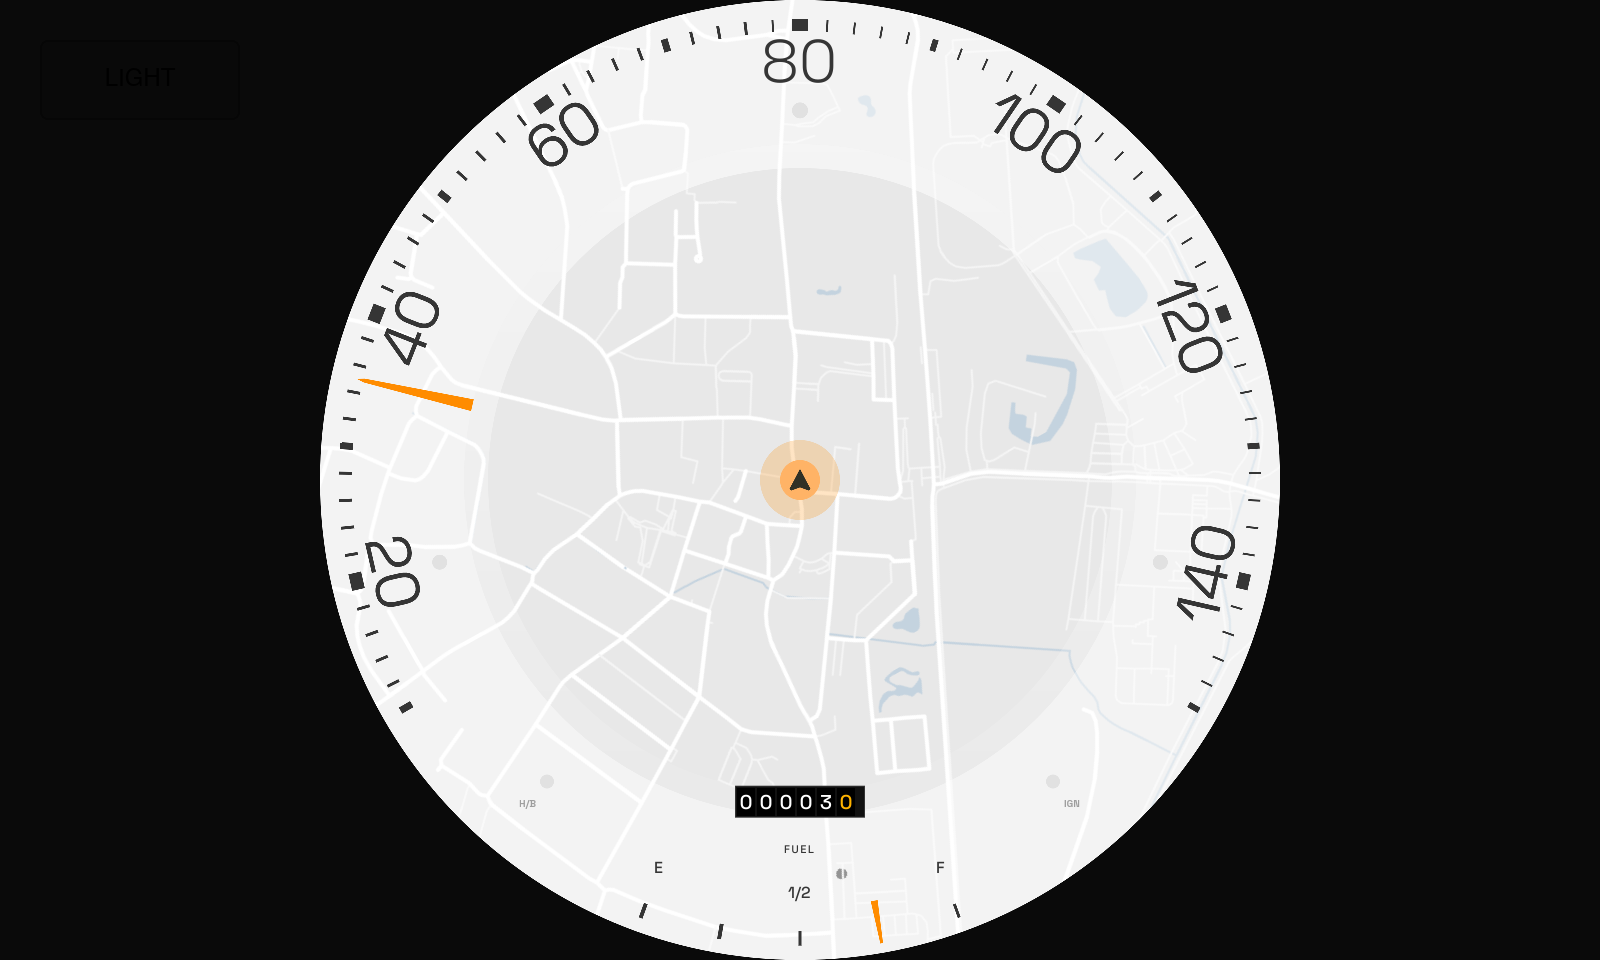
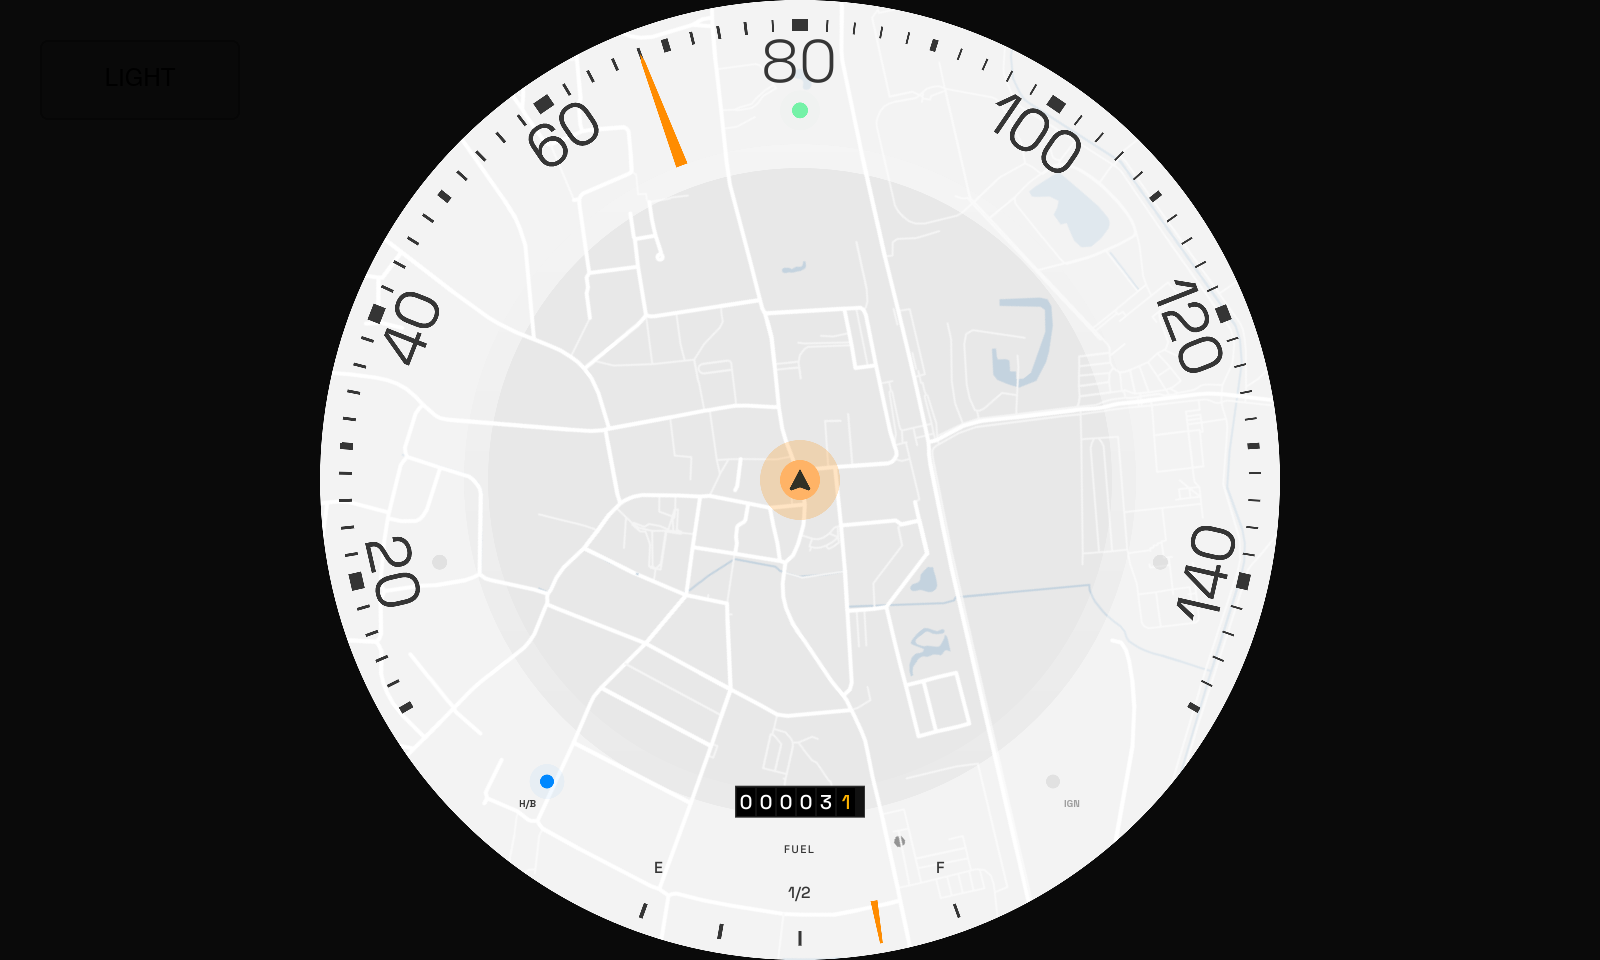
Optimize Spotify integration, robust map rendering, and smooth instrument animations

diff --git a/src/map_renderer.rs b/src/map_renderer.rs
@@ -180,11 +180,19 @@ pub fn render_map(
                             poi_area: None,
                         };
 
-                        if let Ok(Some(tile_data)) = pm.get_tile(tile_x, tile_y, zoom) {
-                            let mut d = flate2::read::GzDecoder::new(tile_data.as_slice());
-                            let mut decompressed = Vec::new();
-                            if d.read_to_end(&mut decompressed).is_ok()
-                                && let Ok(reader) = mvt_reader::Reader::new(decompressed) {
+                        let mut cache_tile = false;
+
+                        match pm.get_tile(tile_x, tile_y, zoom) {
+                            Ok(Some(tile_data)) => {
+                                let mut d = flate2::read::GzDecoder::new(tile_data.as_slice());
+                                let mut decompressed = Vec::new();
+                                let decode_bytes = if d.read_to_end(&mut decompressed).is_ok() {
+                                    decompressed
+                                } else {
+                                    tile_data.as_slice().to_vec()
+                                };
+
+                                if let Ok(reader) = mvt_reader::Reader::new(decode_bytes) {
                                     let mut water_fill_pb = PathBuilder::new();
                                     let mut water_stroke_pb = PathBuilder::new();
                                     let mut road_major_pb = PathBuilder::new();
@@ -241,15 +249,14 @@ pub fn render_map(
                                                     if let Some(properties) = &f.properties
                                                         && let Some(Value::String(val)) =
                                                             properties.get("class")
-                                                            && (val == "secondary"
-                                                                || val == "tertiary"
-                                                                || val == "unclassified"
-                                                                || val == "primary"
-                                                                || val == "residential"
-                                                                || val == "motorway")
-                                                            {
+                                                    {
+                                                        match val.as_str() {
+                                                            "secondary" | "tertiary" | "unclassified" | "primary" | "residential" | "motorway" => {
                                                                 is_major = true;
                                                             }
+                                                            _ => {}
+                                                        }
+                                                    }
                                                     let pb = if is_major {
                                                         &mut road_major_pb
                                                     } else {
@@ -320,14 +327,27 @@ pub fn render_map(
                                     new_paths.road_minor = road_minor_pb.finish();
                                     new_paths.poi_point = poi_point_pb.finish();
                                     new_paths.poi_area = poi_area_pb.finish();
+                                    cache_tile = true;
                                 }
+                            }
+                            Ok(None) => {
+                                // Tile definitely does not exist
+                                cache_tile = true;
+                            }
+                            Err(e) => {
+                                error!("Failed to get tile from PMTiles: {}", e);
+                            }
                         }
+
                         let arc_tile = Arc::new(new_paths);
-                        TILE_CACHE.with(|cache| {
-                            cache
-                                .borrow_mut()
-                                .put((tile_x, tile_y, zoom), arc_tile.clone());
-                        });
+                        // Only cache if there was no reading error (i.e. successfully decoded or definitely does not exist)
+                        if cache_tile {
+                            TILE_CACHE.with(|cache| {
+                                cache
+                                    .borrow_mut()
+                                    .put((tile_x, tile_y, zoom), arc_tile.clone());
+                            });
+                        }
                         arc_tile
                     };
 

diff --git a/src/main.rs b/src/main.rs
@@ -185,14 +185,11 @@ fn main() -> Result<(), slint::PlatformError> {
     let rt = tokio::runtime::Runtime::new().unwrap();
     let _guard = rt.enter();
 
-    log::info!("Initializing Spotify client...");
-    let spotify_client = rt.block_on(spotify::SpotifyClient::init());
-    
     let ui_handle_spotify = ui.as_weak();
-    if let Some(client) = spotify_client {
-        log::info!("Spotify client initialized successfully.");
-        rt.spawn(async move {
-            log::info!("Spotify polling task started.");
+    rt.spawn(async move {
+        log::info!("Initializing Spotify client in the background...");
+        if let Some(client) = spotify::SpotifyClient::init().await {
+            log::info!("Spotify client initialized successfully. Starting polling task...");
             let mut last_art_url = String::new();
             loop {
                 log::debug!("Querying Spotify playback...");
@@ -244,10 +241,10 @@ fn main() -> Result<(), slint::PlatformError> {
                 }
                 tokio::time::sleep(std::time::Duration::from_secs(1)).await;
             }
-        });
-    } else {
-        log::error!("Failed to initialize Spotify client. Check your credentials and .env file.");
-    }
+        } else {
+            log::error!("Failed to initialize Spotify client. Check your credentials and .env file.");
+        }
+    });
 
     let initial_size = ui.window().size();
     let display_size = initial_size.width.min(initial_size.height);

diff --git a/src/spotify.rs b/src/spotify.rs
@@ -15,6 +15,7 @@ pub struct SpotifyState {
 
 pub struct SpotifyClient {
     client: AuthCodeSpotify,
+    http_client: reqwest::Client,
 }
 
 impl SpotifyClient {
@@ -86,7 +87,10 @@ impl SpotifyClient {
             }
         }
 
-        Some(Self { client: spotify })
+        Some(Self {
+            client: spotify,
+            http_client: reqwest::Client::new(),
+        })
     }
 
     pub async fn get_current_playback(&self) -> Option<SpotifyState> {
@@ -100,7 +104,7 @@ impl SpotifyClient {
         drop(token);
 
         let url = "https://api.spotify.com/v1/me/player/currently-playing";
-        let response = reqwest::Client::new()
+        let response = self.http_client
             .get(url)
             .bearer_auth(access_token)
             .send()
@@ -155,7 +159,7 @@ impl SpotifyClient {
     }
 
     pub async fn fetch_album_art(&self, url: &str) -> Option<Vec<u8>> {
-        let response = reqwest::get(url).await.ok()?;
+        let response = self.http_client.get(url).send().await.ok()?;
         let bytes = response.bytes().await.ok()?;
         Some(bytes.to_vec())
     }